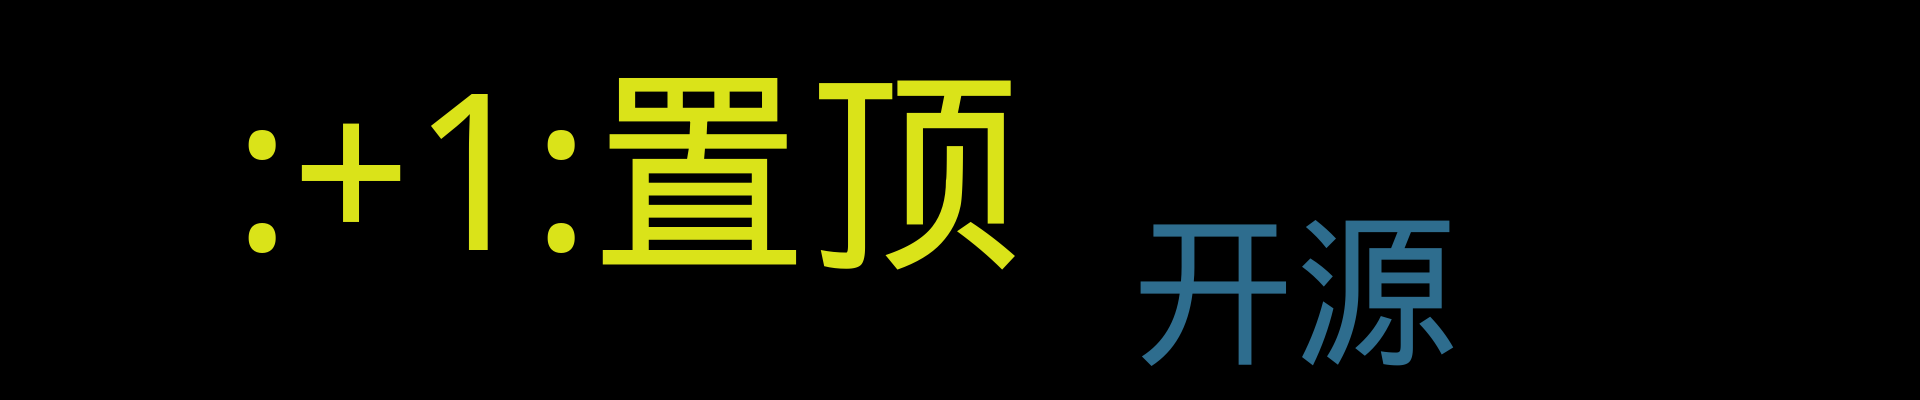
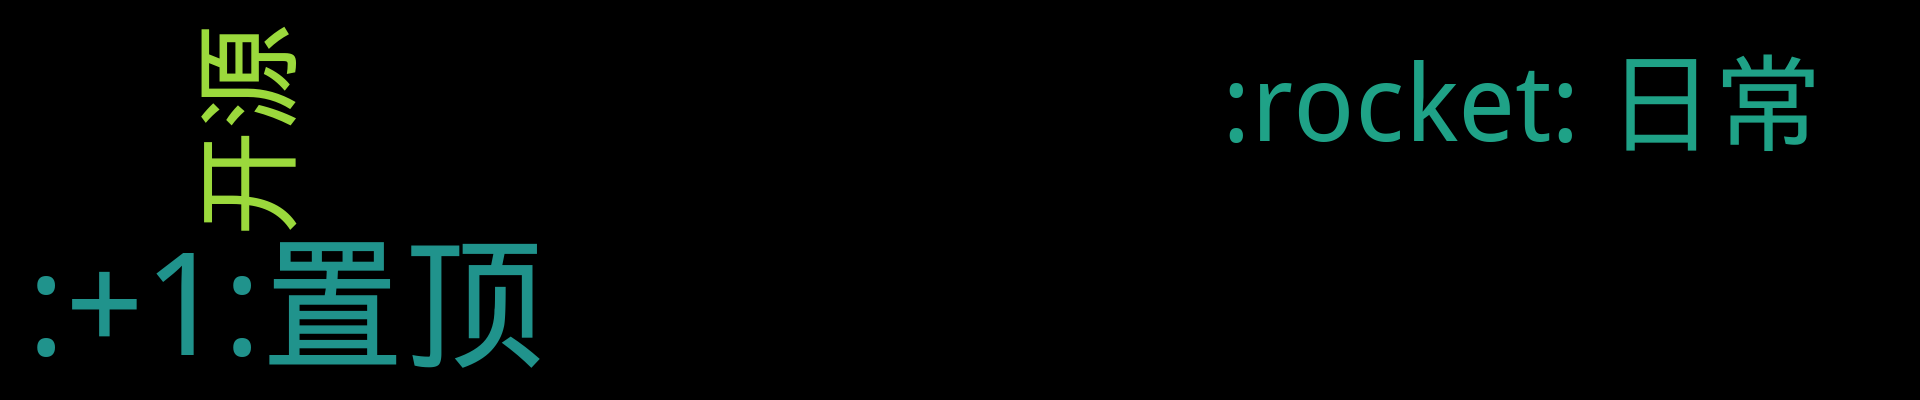
Update from Github Action

diff --git a/README.md b/README.md
@@ -1,9 +1,9 @@
 
 
 <p align='center'>
-    <img src="https://badgen.net/badge/labels/3"/>
+    <img src="https://badgen.net/badge/labels/4"/>
     <img src="https://badgen.net/github/issues/rdp-studio/ghiblog"/>
-    <img src="https://badgen.net/badge/last-commit/2021-05-08 08:44:32"/>
+    <img src="https://badgen.net/badge/last-commit/2021-05-08 08:57:12"/>
     <img src="https://badgen.net/github/forks/rdp-studio/ghiblog"/>
     <img src="https://badgen.net/github/stars/rdp-studio/ghiblog"/>
     <img src="https://badgen.net/github/watchers/rdp-studio/ghiblog"/>
@@ -21,6 +21,17 @@
 - [RDPStudio团队（工作室）介绍](https://github.com/rdp-studio/ghiblog/issues/2)  <sup>0 :speech_balloon:</sup>  	 
 - [基于Github Action自动生成并更新GitHub Issue博客项目ghiblog的ReadMe](https://github.com/rdp-studio/ghiblog/issues/1)  <sup>0 :speech_balloon:</sup>  	 
 ## 最新 :new: 
+
+#### [发现一个在线下载油管视频的网站](https://github.com/rdp-studio/ghiblog/issues/4) <sup>0 :speech_balloon:</sup> 	 2021-05-08 08:56:48
+
+:label: : [:rocket: 日常](https://github.com/rdp-studio/ghiblog/labels/%3Arocket%3A%20%E6%97%A5%E5%B8%B8)
+
+地址：[点我访问](https://yt1s.com/zh-cn)
+
+[更多>>>](https://github.com/rdp-studio/ghiblog/issues/4)
+
+---
+
 
 #### [rdpmovy.js](https://github.com/rdp-studio/ghiblog/issues/3) <sup>0 :speech_balloon:</sup> 	 2021-05-08 08:41:44
 
@@ -147,6 +158,14 @@ rdpmovy.js is an easy-to-use animation engine based on three.js and gsap.
 <details>
 <summary>:framed_picture:封面	<sup>0:newspaper:</sup></summary>
 
+
+
+</details>
+
+<details>
+<summary>:rocket: 日常	<sup>1:newspaper:</sup></summary>
+
+- [发现一个在线下载油管视频的网站](https://github.com/rdp-studio/ghiblog/issues/4)  <sup>0 :speech_balloon:</sup>  	 
 
 
 </details>
